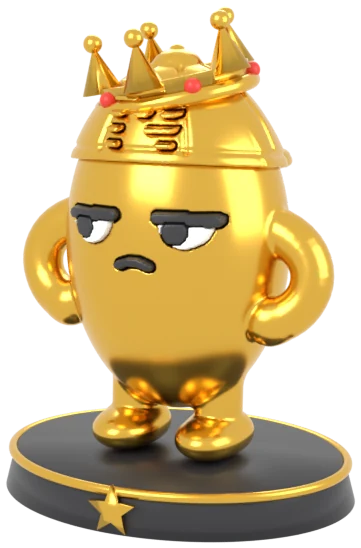
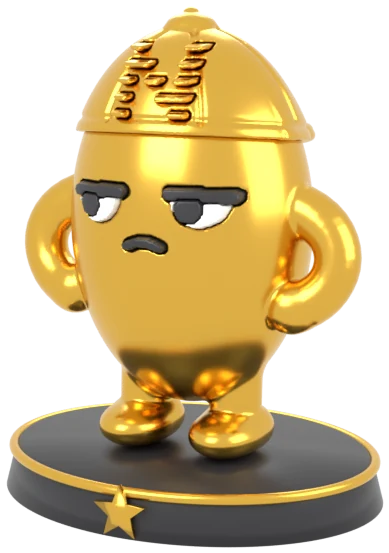
Zeste doré : sans couronne, dos lisse
Claude-Session: https://claude.ai/code/session_01TrTqVLma8bUChQu6ezP7G3

diff --git a/index.html b/index.html
@@ -936,7 +936,7 @@
       <h2 id="t-mascottes">La collection Noméo</h2>
       <p class="mg-intro">Flocon, Zeste et Dodo en mini-figurines à collectionner, offertes avec vos commandes. Chaque figurine est numérotée, a sa rareté et arrive avec sa carte de collection. Une nouvelle série à chaque saison.</p>
       <div class="cl-head"><h3>Série 1 · Hiver 2026</h3><ul class="cl-legend" aria-label="Raretés"><li class="cl-c">Commune</li><li class="cl-r">Rare</li><li class="cl-sr">Super rare</li><li class="cl-l">Légendaire</li><li class="cl-s">Secrète</li></ul></div>
-      <ul class="cl-grid"><li class="cl-card k-c"><div class="cl-img"><img src="img/fig-001-flocon.webp" alt="" width="409" height="513" loading="lazy" decoding="async"></div><span class="cl-no">N°001</span><h3>Flocon</h3><span class="cl-badge">Commune</span></li><li class="cl-card k-c"><div class="cl-img"><img src="img/fig-002-zeste.webp" alt="" width="391" height="523" loading="lazy" decoding="async"></div><span class="cl-no">N°002</span><h3>Zeste</h3><span class="cl-badge">Commune</span></li><li class="cl-card k-c"><div class="cl-img"><img src="img/fig-003-dodo.webp" alt="" width="320" height="512" loading="lazy" decoding="async"></div><span class="cl-no">N°003</span><h3>Dodo</h3><span class="cl-badge">Commune</span></li><li class="cl-card k-r"><div class="cl-img cl-hid"><img src="img/fig-004-flocon-noel.webp" alt="" width="368" height="509" loading="lazy" decoding="async"><span class=cl-mq aria-hidden=true>?</span></div><span class="cl-no">N°004</span><h3>Flocon de Noël</h3><span class="cl-badge">Rare</span></li><li class="cl-card k-r"><div class="cl-img cl-hid"><img src="img/fig-005-zeste-pizzaiolo.webp" alt="" width="394" height="519" loading="lazy" decoding="async"><span class=cl-mq aria-hidden=true>?</span></div><span class="cl-no">N°005</span><h3>Zeste pizzaïolo</h3><span class="cl-badge">Rare</span></li><li class="cl-card k-sr"><div class="cl-img cl-hid"><img src="img/fig-006-dodo-fantome.webp" alt="" width="480" height="558" loading="lazy" decoding="async"><span class=cl-mq aria-hidden=true>?</span></div><span class="cl-no">N°006</span><h3>Dodo fantôme</h3><span class="cl-badge">Super rare</span></li><li class="cl-card k-l"><div class="cl-img cl-hid"><img src="img/fig-007-zeste-dore.webp" alt="" width="361" height="548" loading="lazy" decoding="async"><span class=cl-mq aria-hidden=true>?</span></div><span class="cl-no">N°007</span><h3>Zeste doré</h3><span class="cl-badge">Légendaire</span></li><li class="cl-card k-s"><div class="cl-img cl-hid"><img src="img/fig-003-dodo.webp" alt="" width="320" height="512" loading="lazy" decoding="async"><span class=cl-mq aria-hidden=true>?</span></div><span class="cl-no">N°008</span><h3>???</h3><span class="cl-badge">Secrète</span></li></ul>
+      <ul class="cl-grid"><li class="cl-card k-c"><div class="cl-img"><img src="img/fig-001-flocon.webp" alt="" width="409" height="513" loading="lazy" decoding="async"></div><span class="cl-no">N°001</span><h3>Flocon</h3><span class="cl-badge">Commune</span></li><li class="cl-card k-c"><div class="cl-img"><img src="img/fig-002-zeste.webp" alt="" width="391" height="523" loading="lazy" decoding="async"></div><span class="cl-no">N°002</span><h3>Zeste</h3><span class="cl-badge">Commune</span></li><li class="cl-card k-c"><div class="cl-img"><img src="img/fig-003-dodo.webp" alt="" width="320" height="512" loading="lazy" decoding="async"></div><span class="cl-no">N°003</span><h3>Dodo</h3><span class="cl-badge">Commune</span></li><li class="cl-card k-r"><div class="cl-img cl-hid"><img src="img/fig-004-flocon-noel.webp" alt="" width="368" height="509" loading="lazy" decoding="async"><span class=cl-mq aria-hidden=true>?</span></div><span class="cl-no">N°004</span><h3>Flocon de Noël</h3><span class="cl-badge">Rare</span></li><li class="cl-card k-r"><div class="cl-img cl-hid"><img src="img/fig-005-zeste-pizzaiolo.webp" alt="" width="394" height="519" loading="lazy" decoding="async"><span class=cl-mq aria-hidden=true>?</span></div><span class="cl-no">N°005</span><h3>Zeste pizzaïolo</h3><span class="cl-badge">Rare</span></li><li class="cl-card k-sr"><div class="cl-img cl-hid"><img src="img/fig-006-dodo-fantome.webp" alt="" width="480" height="558" loading="lazy" decoding="async"><span class=cl-mq aria-hidden=true>?</span></div><span class="cl-no">N°006</span><h3>Dodo fantôme</h3><span class="cl-badge">Super rare</span></li><li class="cl-card k-l"><div class="cl-img cl-hid"><img src="img/fig-007-zeste-dore.webp" alt="" width="389" height="553" loading="lazy" decoding="async"><span class=cl-mq aria-hidden=true>?</span></div><span class="cl-no">N°007</span><h3>Zeste doré</h3><span class="cl-badge">Légendaire</span></li><li class="cl-card k-s"><div class="cl-img cl-hid"><img src="img/fig-003-dodo.webp" alt="" width="320" height="512" loading="lazy" decoding="async"><span class=cl-mq aria-hidden=true>?</span></div><span class="cl-no">N°008</span><h3>???</h3><span class="cl-badge">Secrète</span></li></ul>
       <h3 class="cl-sub">Comment les avoir</h3>
       <ol class="cl-how"><li><b>Chaque commande</b><span>1 carte de collection offerte</span></li><li><b>Dès 25&nbsp;€</b><span>1 mini-figurine surprise et sa carte</span></li><li><b>Chaque tranche de 50&nbsp;€</b><span>1 booster&nbsp;: 2 mini-figurines surprises, chacune avec sa carte</span></li></ol>
       <p class="cl-gold"><b>Le Zeste doré n’existe qu’en un seul exemplaire.</b> Il est caché dans un booster. Celui qui le trouve le garde et reçoit en plus une carte cadeau de 100&nbsp;€ à dépenser sur le site.</p>
